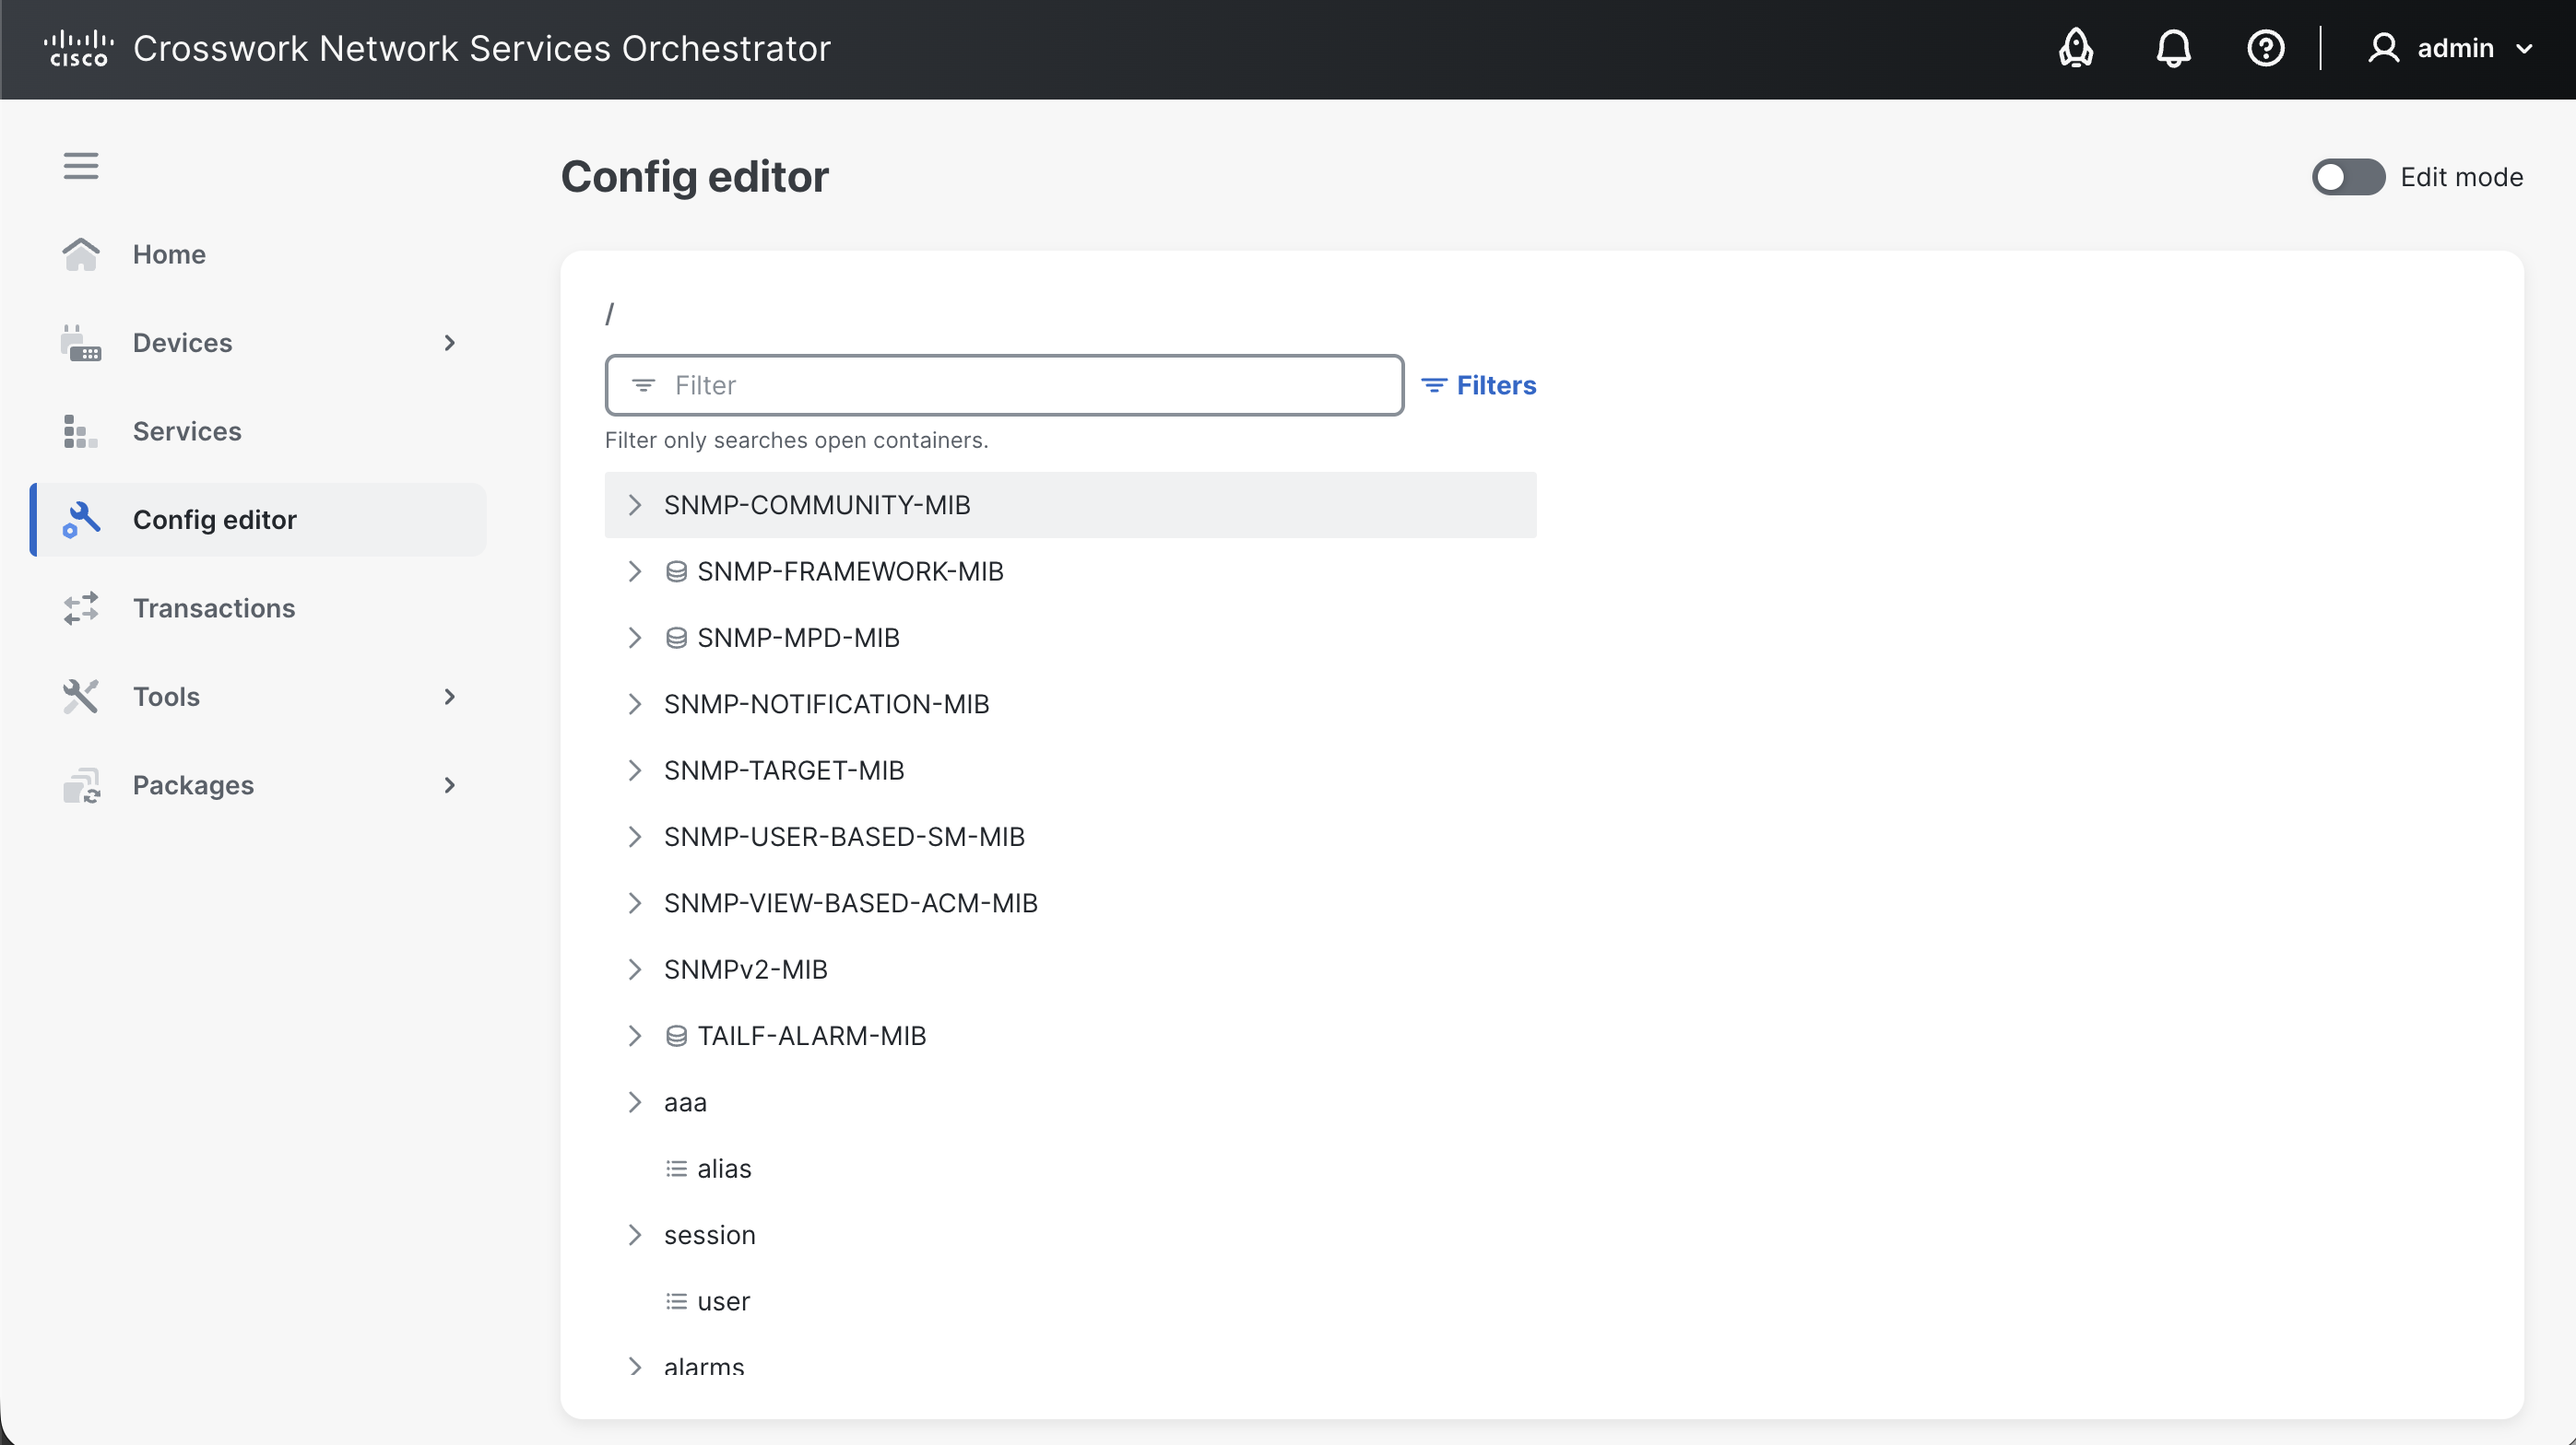
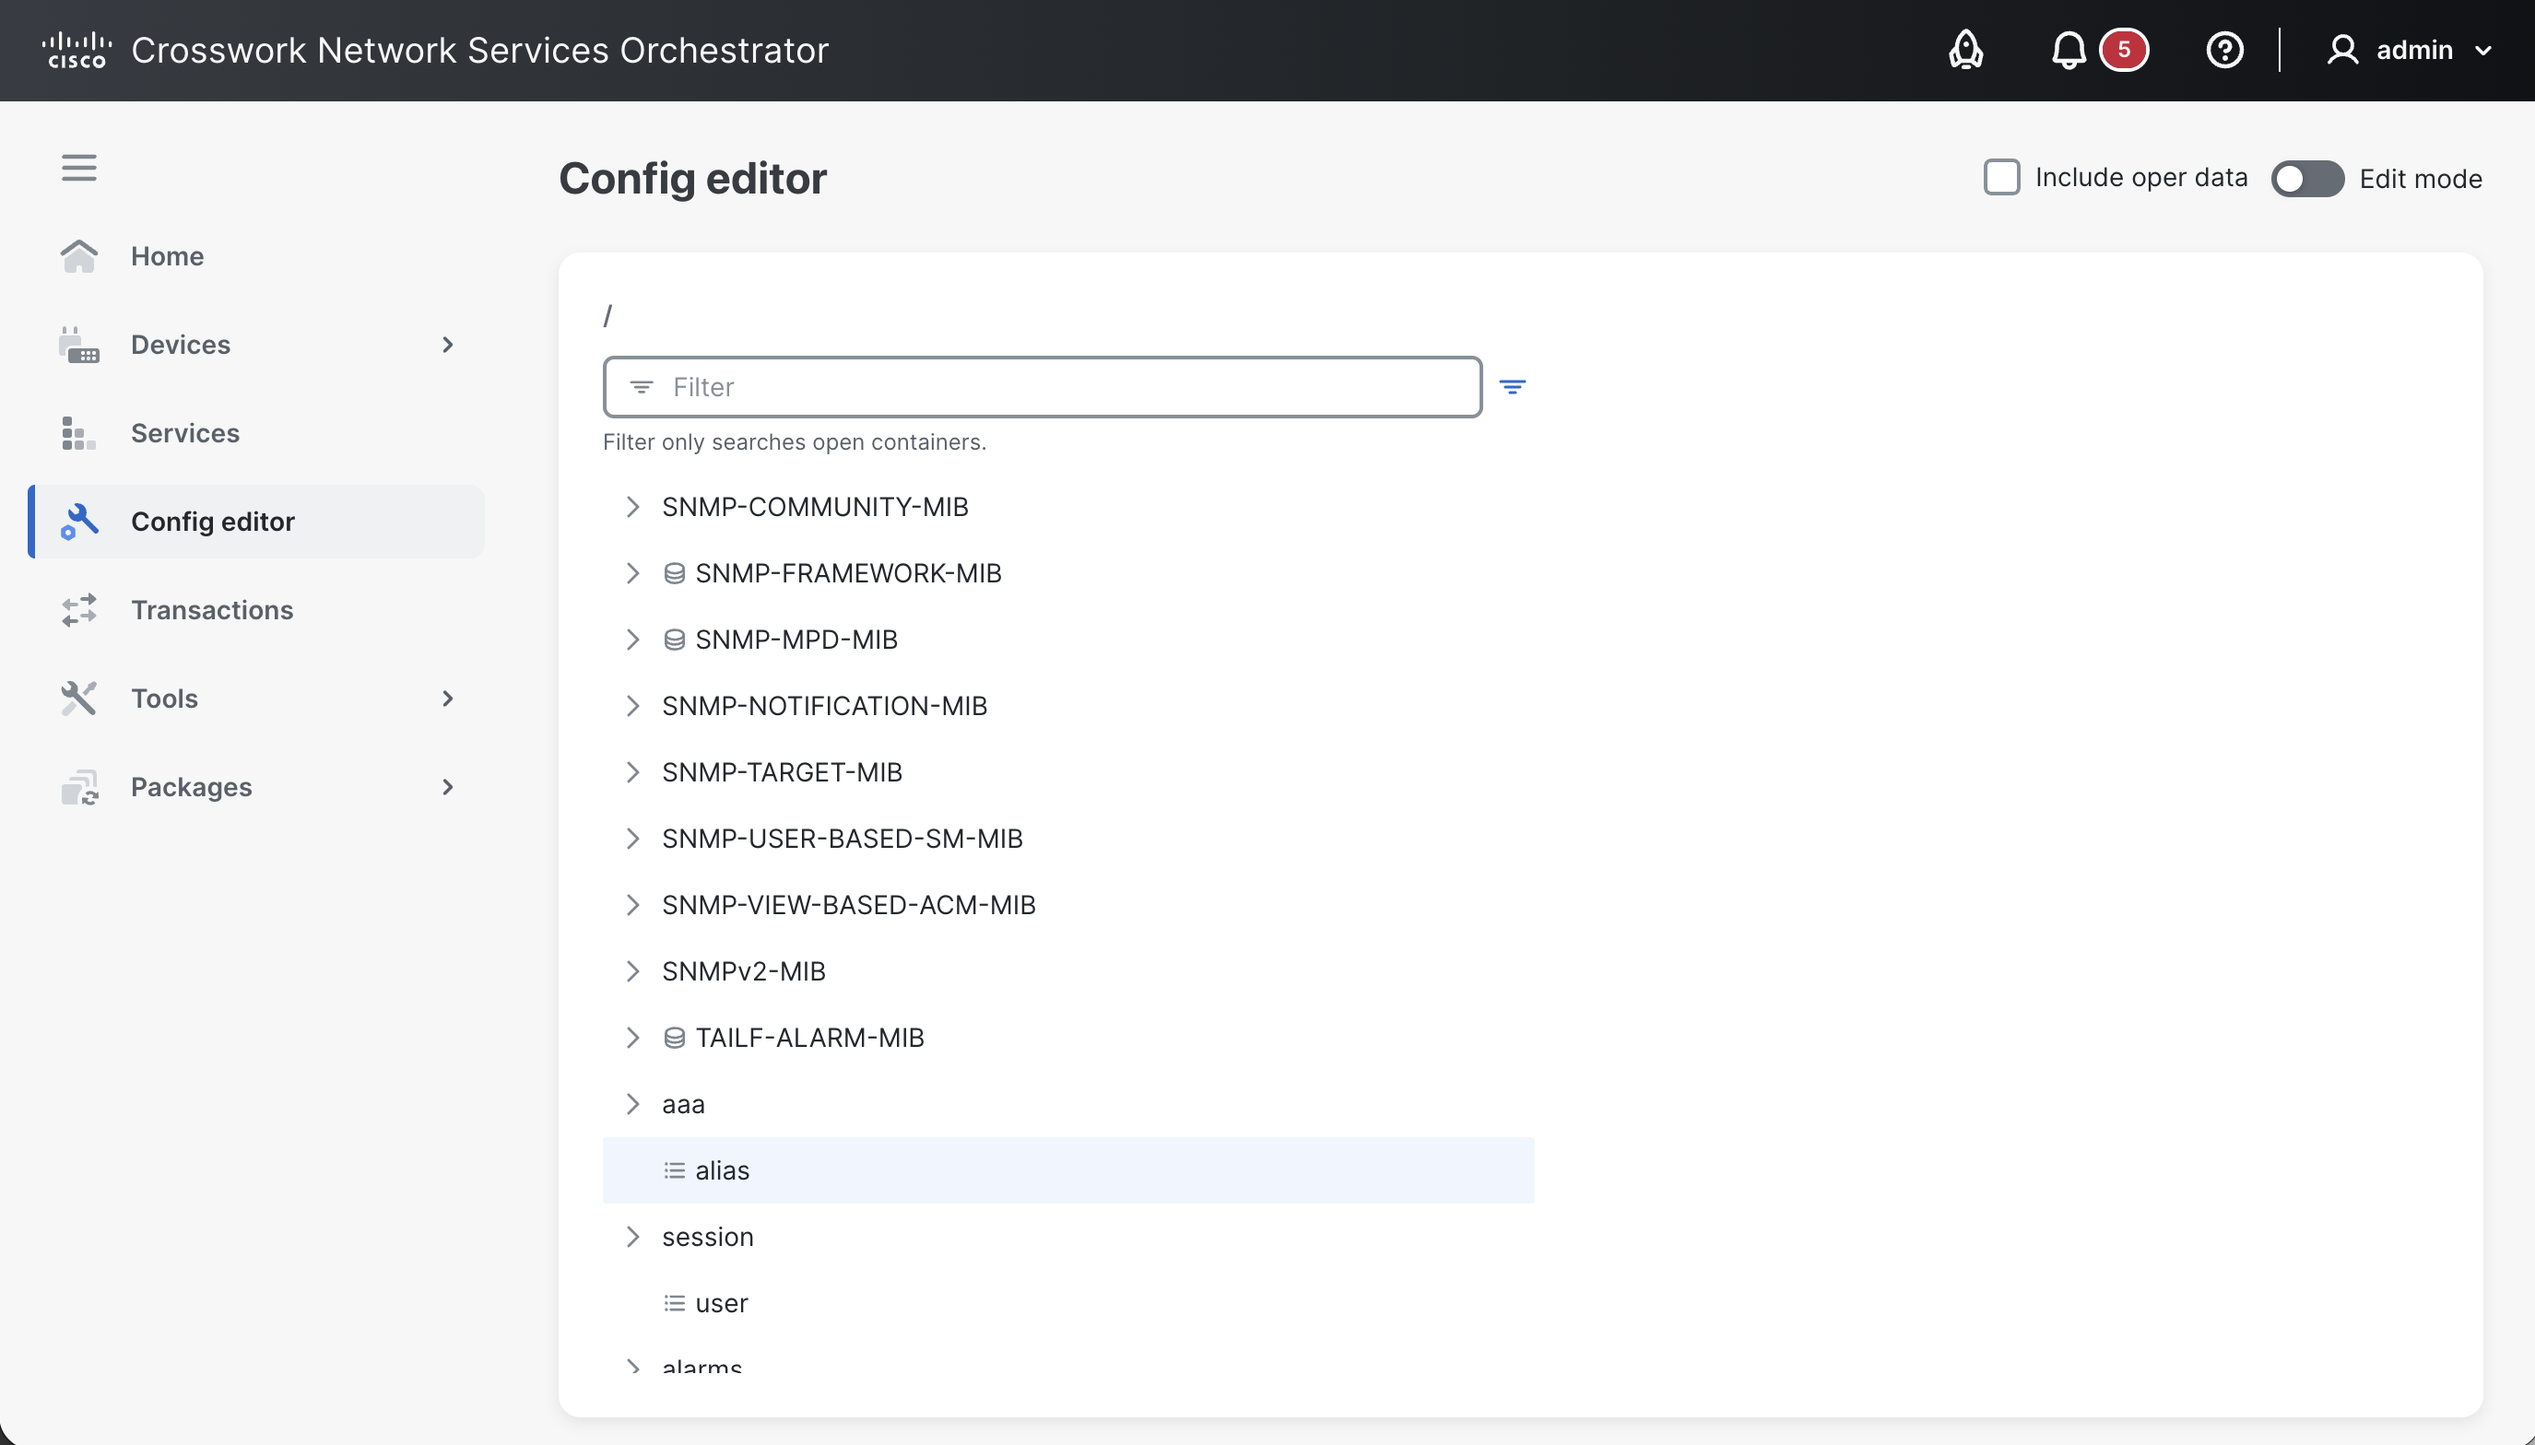
Align Config Editor options with current UI

diff --git a/operation-and-usage/webui/config-editor.md b/operation-and-usage/webui/config-editor.md
@@ -21,17 +21,17 @@ The **Configuration editor** consists of the following main parts:
 
 The following options are available in the **Configuration editor** view:
 
+* **Include oper data**: Displays operational-data nodes in the navigation tree.
 * **Edit mode**: Enables editing in the **Configuration editor**. When edit mode is enabled, configurable nodes can be modified directly in the rendered form or list view. When it is disabled, the view is read-only.
 
 ## Configuration Navigation
 
 The Configuration Editor displays configuration defined by the YANG model in a hierarchical tree structure that you can browse and navigate. Expand nodes to reveal their child nodes, and use the filter field to narrow the visible nodes in the current tree. Choice nodes are expanded by default. Select choice and case labels to expand or collapse them. Drag the divider between the navigation tree and the rendered view to resize the tree.
 
-Use **Filters** next to the filter field to choose which node types appear in the tree:
+Use **Filters** next to the filter field to choose whether action and leaf nodes appear in the tree:
 
-* **Include operdata** displays operational-data nodes.
-* **Include actions** displays action nodes.
-* **Include leafs** displays leaf nodes.
+* **Show actions** displays action nodes.
+* **Show leafs** displays leaf nodes.
 
 Select **Apply** to update the tree with the selected filters.
 
@@ -47,7 +47,7 @@ The breadcrumb above the tree shows the current navigation path, for example **/
 
 ### Tree Icons
 
-The tree shows the following icons depending on the selected tree filters:
+The tree shows the following icons. Leaf and action nodes appear according to the selected **Filters**; operational-data nodes appear when **Include oper data** is selected.
 
 | Icon                                                                                        | Meaning                                                  |
 | ------------------------------------------------------------------------------------------- | -------------------------------------------------------- |
